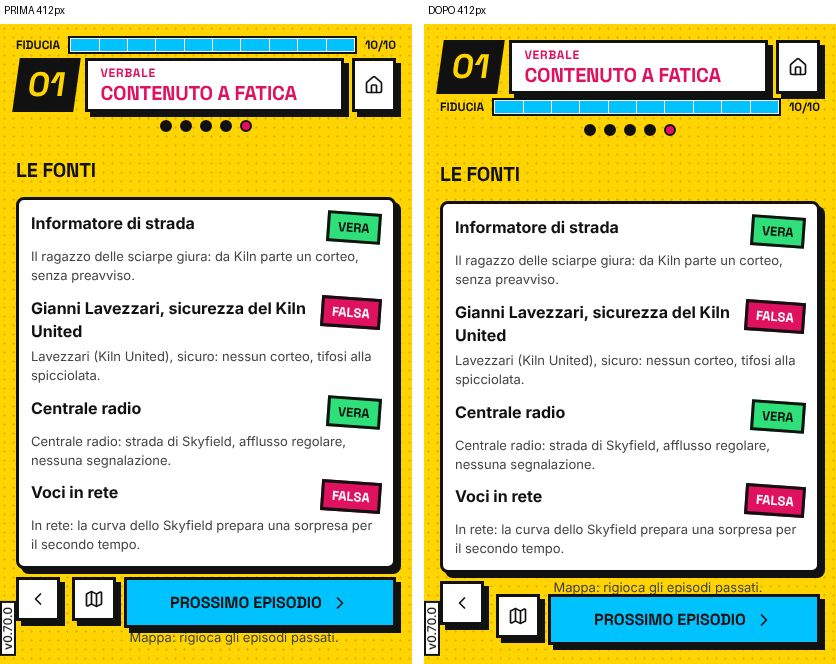
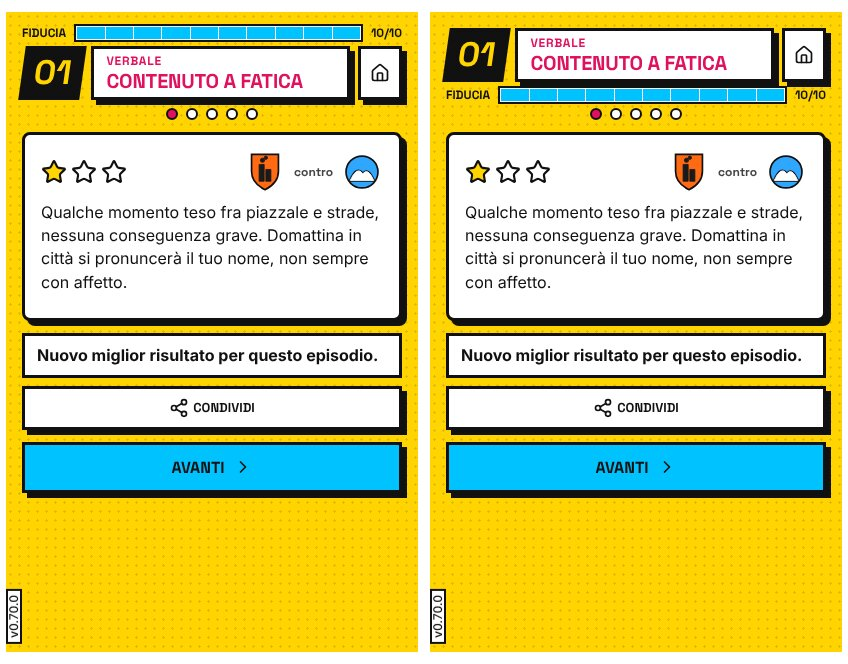
D-283 (D-10): il verbale con la fiducia sotto la testata alto come su main
CI 1456 su bd6d1b3, grafica (360 schieramenti), passo altezze: i
verbali falliti di e18 (casuale 1) ed e21 (peggiore 1) scorrevano di
3 px a 360x640 (D-187, soglia 0). Causa C283V02: la fiducia nella scena
costava 4 px in più. Il passo sotto la fiducia sale di --spazio-1.
Misura (sonda-altezze, parte verbali, 360x640 e 375x667): ramo prima
643/643, main 640, ora 640 in tutti e quattro; giro d283 verde a
360/375/412, «Prossimo episodio» visibile 50 su 51 px.

diff --git a/src/resa/stile-d283.css b/src/resa/stile-d283.css
@@ -32,3 +32,7 @@ main:not(.rosso-c283e01) .unita:has(.unita-fissa) strong.tutte { margin-left: va
 /* D-10 (M-8): nel verbale la nota «Mappa: …» sta sopra i pulsanti (Verbale.tsx); il margine negativo che la avvicinava ai
    pulsanti, da sopra, la portava sull'ombra dell'ultima scheda: qui il margine va sotto, verso i pulsanti. Rosso C283V01 */
 .verbale-fine > [data-spiega]:first-child { margin: var(--spazio-2) 0 calc(-1 * var(--spazio-2)); line-height: 1; } /* riga stretta: a 360×640 «Prossimo episodio» resta toccabile per intero (≥ --tocco-min) */
+/* D-10: la fiducia sotto la testata del verbale costava 4 px in più che sopra (scena da 16 px invece di 12 + fiducia + 4):
+   a 360×640 il verbale fallito di e18 ed e21 scorreva di 3 px (D-187, sonda-altezze). Qui il passo sotto la fiducia sale
+   di 4 px e il verbale torna alto come su main. */
+.scena[data-scena="verbale"] > .fiducia + .passi { margin-top: var(--spazio-1); }

diff --git a/docs/foto/d283/README.md b/docs/foto/d283/README.md
@@ -14,13 +14,13 @@ ingrandite 2×. Strumenti: `node tools/foto-d283.mjs <build> <cartella> 360,375,
 | D-13 stato premuto | `stile-d283.css` | Home e «i»: nessun cambio con `:active` (forzato con CDP) | spinta 3 px + ombra corta, come `.pulsante`; il «?» della barra è un `.pulsante` e lo era già. Pastiglie e dischi: alla sessione della mappa (indicazione della principale) | C283A01: 2 problemi |
 | D-09/M-3 unità finite e a riposo | `Schieramento.tsx`, `stile-d283.css`, `token.css` (`--righe-esaurita`) | a riposo «2» 4,17:1; finita: nome 1,91:1, «0» 2,48:1 (colori composti con le opacità) | a riposo 18,88:1; finita: nome 14,36:1, «✓ tutte» 13,19:1 (contro la riga più scura); vassoio alto 70 px prima e dopo; «tutte» con la spunta (icona: «✓» non è nei caratteri inclusi, D-257) al posto dell'icona dell'unità | C283E01: 4 problemi |
 | D-07/M-5 scheda «fallito» | `stile-d283.css` | scheda 22 px sotto e «Rigioca» a −18,2 px dal riquadro interno, a 760 e 915 per 360/375/412 | nessun taglio, margine ≥ 4 px; mappa allo stesso posto in tutti gli stati (279 px dall'alto a 760/915) | C283F01: 4 problemi a 360 |
-| D-10/M-8 verbale | `Verbale.tsx`, `App.tsx`, `stile-d283.css` | 360×640 e01 «Contenuto a fatica»: nota a 628-647 su 640 (fuori), fiducia sopra la testata a 640/667/760 | nota a 581-594, sopra i pulsanti, senza toccare l'ombra della scheda; fiducia sotto la testata; «Prossimo episodio» visibile 46 px su 51 a scorrimento zero (prima 51) | C283V01: 1; C283V02: 3 |
+| D-10/M-8 verbale | `Verbale.tsx`, `App.tsx`, `stile-d283.css` | 360×640 e01 «Contenuto a fatica»: nota a 628-647 su 640 (fuori), fiducia sopra la testata a 640/667/760 | nota a 577-590, sopra i pulsanti, senza toccare l'ombra della scheda; fiducia sotto la testata; «Prossimo episodio» visibile 50 px su 51 a scorrimento zero (prima 51); verbali falliti di e18/e21 alti come su main (D-187: 640 a 360×640, prima della correzione 643) | C283V01: 1; C283V02: 3 |
 | D-15 versione nei Crediti | `Crediti.tsx`, `stile-d283.css` | versione nell'angolo a 0 px dal bordo di 3 schede (640) e 2 (915) | nell'angolo non c'è; «Versione 0.70.0» in fondo alla pagina | C283C01: 4 problemi |
 | D-16 costo in radio | — | uscito dal lotto (scelta della principale): accorciare il testo sposta le pastiglie della mappa; misure in `d16/APPUNTI.md` | — | — |
 
 ## Limiti dichiarati
-- Il verbale a 360×640 scorre di 45 px (prima 47); con la nota sopra, «Prossimo episodio» è tagliato di 5 px in basso a
-  scorrimento zero (46 su 51 visibili, sopra i 44 del tocco minimo).
+- Il verbale a 360×640 scorre di 41 px (prima 47); a scorrimento zero «Prossimo episodio» è visibile per 50 px su 51
+  (sopra i 44 del tocco minimo).
 - Lo stato premuto è misurato forzando `:active` con CDP, non con un dito vero.
 - Il controllo «tutte» sotto il lucchetto delle unità fisse è stato visto rosso solo sulla foto della prima versione, non con
   un interruttore.
